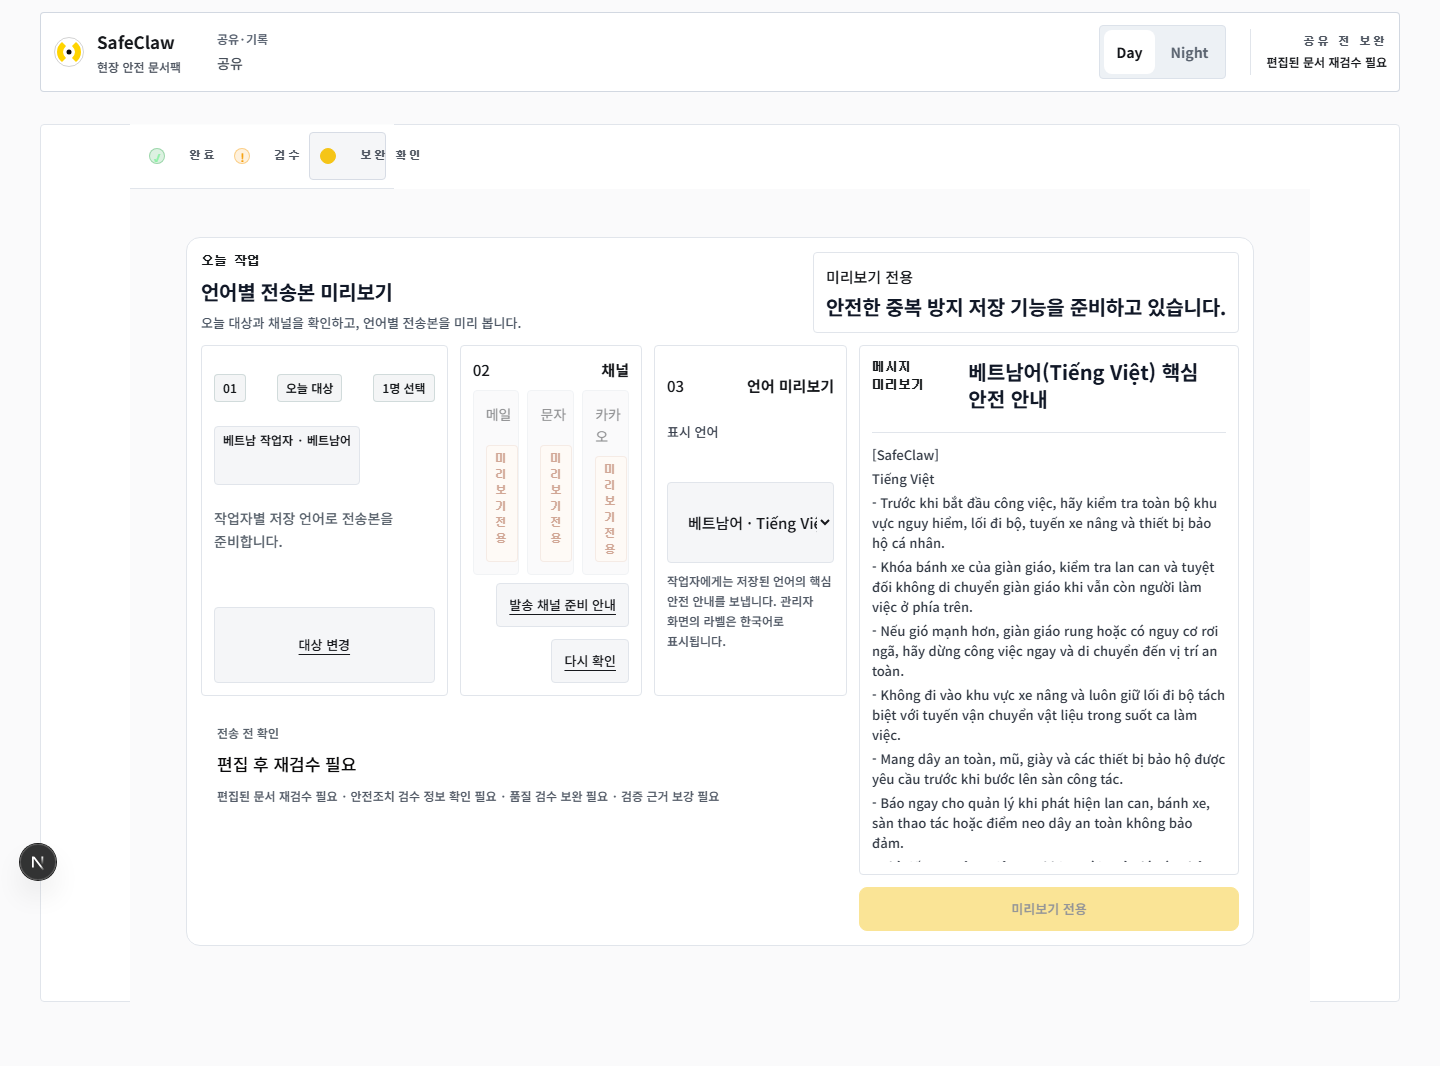
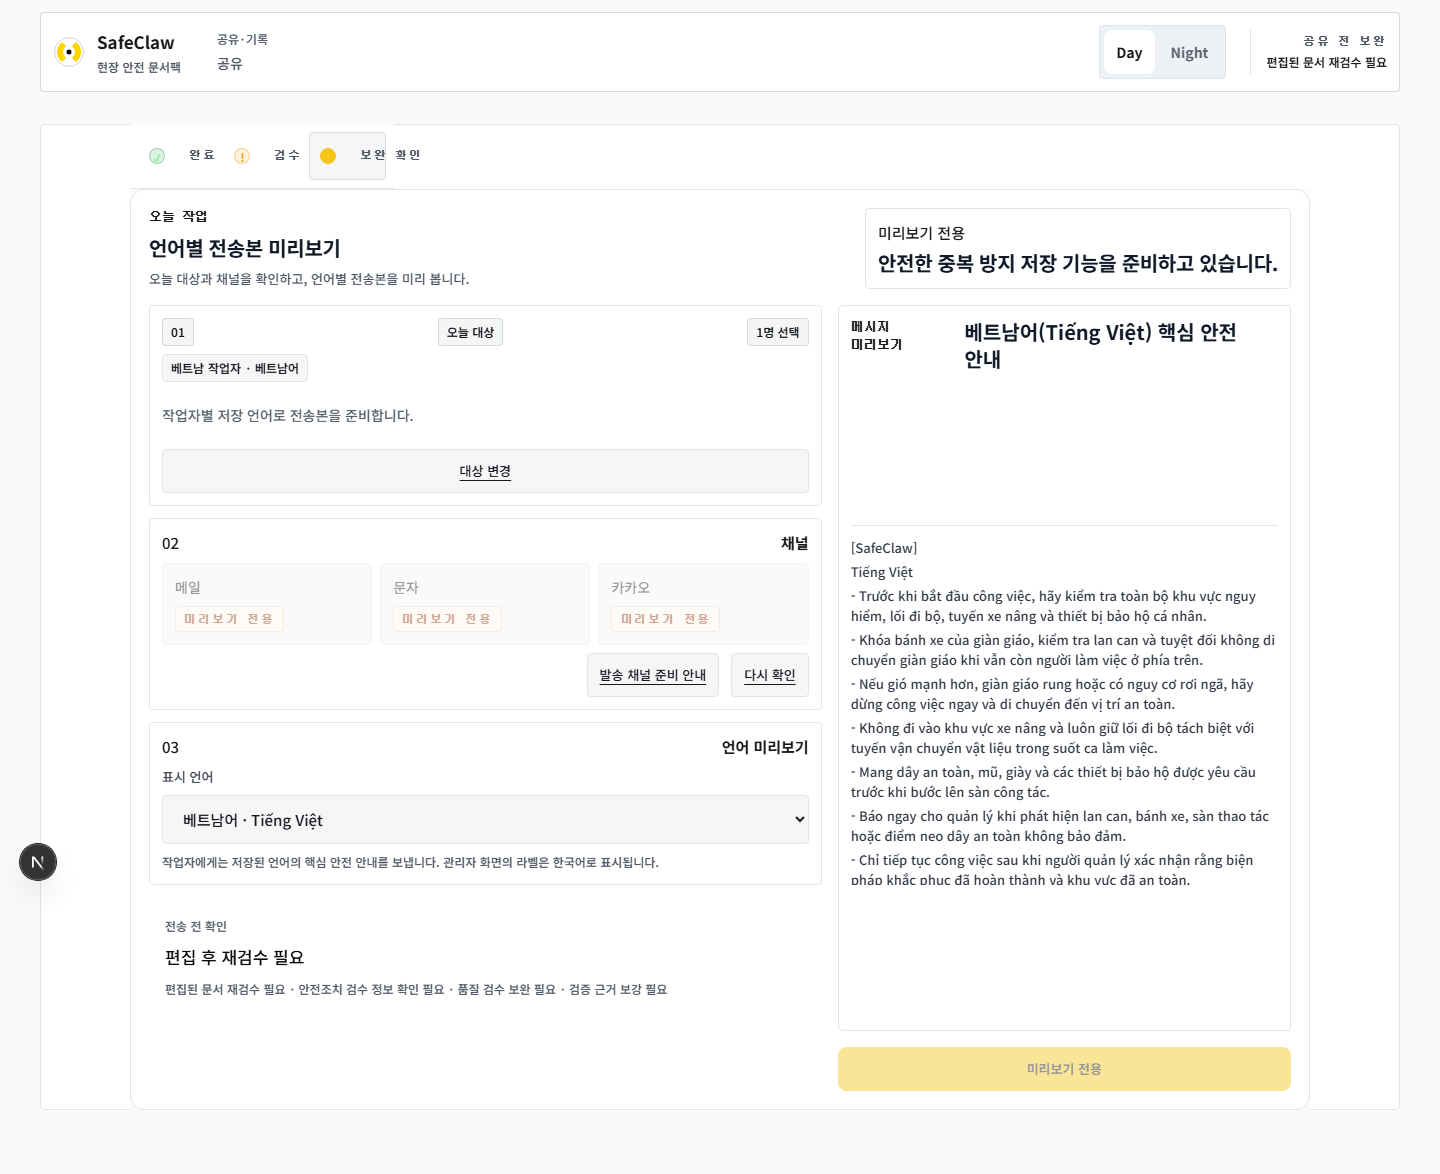
fix: widen workspace share desktop layout

diff --git a/app/globals.css b/app/globals.css
@@ -14618,11 +14618,18 @@ body:has(.safeclaw-landing) :is(
 }
 
 @media (min-width: 960px) {
+  .command-center-shell.workspace-page-share .workspace-step-page,
+  .command-center-shell.workspace-page-share .field-workspace-share-only {
+    width: 100%;
+  }
+
   .command-center-shell.workspace-page-share .share-panel.workflow-panel {
     max-width: 1180px;
-    grid-template-columns: minmax(0, 1fr) minmax(380px, 0.5fr);
+    grid-template-columns: minmax(0, 0.92fr) minmax(420px, 0.62fr);
     align-items: start;
-    gap: 12px;
+    gap: 16px;
+    border-radius: var(--r-lg);
+    padding: 18px;
   }
 
   .command-center-shell.workspace-page-share .share-workflow-header {
@@ -14635,14 +14642,20 @@ body:has(.safeclaw-landing) :is(
     grid-column: 1;
   }
 
+  .command-center-shell.workspace-page-share .share-form-shell {
+    grid-template-columns: 1fr;
+    align-content: start;
+  }
+
   .command-center-shell.workspace-page-share [data-share-preview] {
     grid-column: 2;
     grid-row: 2 / span 3;
     align-self: stretch;
+    min-height: 0;
   }
 
   .command-center-shell.workspace-page-share [data-share-preview] .message-preview-lines {
-    max-height: 430px;
+    max-height: min(40vh, 380px);
     overflow: auto;
   }
 
@@ -18684,6 +18697,28 @@ body:has(.safeclaw-landing) :is(
   .command-center-shell.workspace-theme-day .composer-submit-button {
     min-height: var(--control-height);
     padding: 8px 12px;
+  }
+}
+
+/* Share desktop final guard: keep the delivery step as a full-width workbench,
+   not a tall mobile card floating inside the workspace canvas. */
+@media (min-width: 901px) {
+  .command-center-shell.workspace-page-share .linear-workspace-layout {
+    min-height: 0;
+  }
+
+  .command-center-shell.workspace-page-share .linear-workspace-layout .command-main {
+    min-height: 0;
+    padding: 0;
+  }
+
+  .command-center-shell.workspace-page-share .linear-workspace-layout .workspace-step-page {
+    min-height: 0;
+    padding: 0;
+  }
+
+  .command-center-shell.workspace-page-share .share-panel.workflow-panel {
+    margin-top: 0;
   }
 }
 

diff --git a/evaluation/share-desktop-layout-2026-07-20/report.md b/evaluation/share-desktop-layout-2026-07-20/report.md
@@ -1,0 +1,44 @@
+# Share Desktop Layout Check - 2026-07-20
+
+## Verdict
+
+PASS for bounded desktop share layout remediation.
+
+The previous share surface passed functional tests but still read visually like a narrow mobile card floating inside the desktop workspace. This patch keeps the approved share workflow intact while making the desktop breakpoint a full-width two-column workbench:
+
+- Left: today recipients, channel state, language selector
+- Right: message preview, single primary CTA
+
+## Changes
+
+- Expanded desktop share panel to the 1180px workbench width.
+- Replaced the desktop 3-card row with a single left-column workflow stack.
+- Kept the message preview and primary CTA in a dedicated right execution column.
+- Removed excess desktop step-page padding for the share state.
+- Kept mobile rules untouched.
+
+## Verification
+
+- `npm.cmd test -- tests\workspace-share-mobile-browser.test.ts --maxWorkers=1 --fileParallelism=false`
+  - 1 file / 1 test PASS
+  - Confirms full Vietnamese message retention, bounded preview, single CTA, desktop task-distance budget, mobile task-distance budget, and horizontal overflow 0.
+- `npm.cmd test -- tests\workspace-share-simplification.test.ts tests\workflow-share-client.test.ts tests\workflow-share-panel-behavior.test.ts tests\workpack-share-authority-routes.test.ts tests\frontend-workbench-visual-contract.test.ts --maxWorkers=1 --fileParallelism=false`
+  - 5 files / 98 tests PASS
+- `npm.cmd run typecheck`
+  - PASS
+- `npm.cmd run build`
+  - PASS, 28/28 static pages
+- `git diff --check`
+  - PASS, line-ending warning only
+
+## Evidence
+
+- Updated screenshots:
+  - `evaluation/share-mobile-p1/screenshots/desktop-day-vietnamese.png`
+  - `evaluation/share-mobile-p1/screenshots/desktop-night-vietnamese.png`
+  - `evaluation/share-mobile-p1/screenshots/mobile-390-day-vietnamese.png`
+  - `evaluation/share-mobile-p1/screenshots/mobile-390-night-vietnamese.png`
+
+## Remaining Scope
+
+This patch does not change dispatch authority, provider configuration, login, or share-session data contracts. It is a bounded UI composition fix for the already-approved share workflow.
